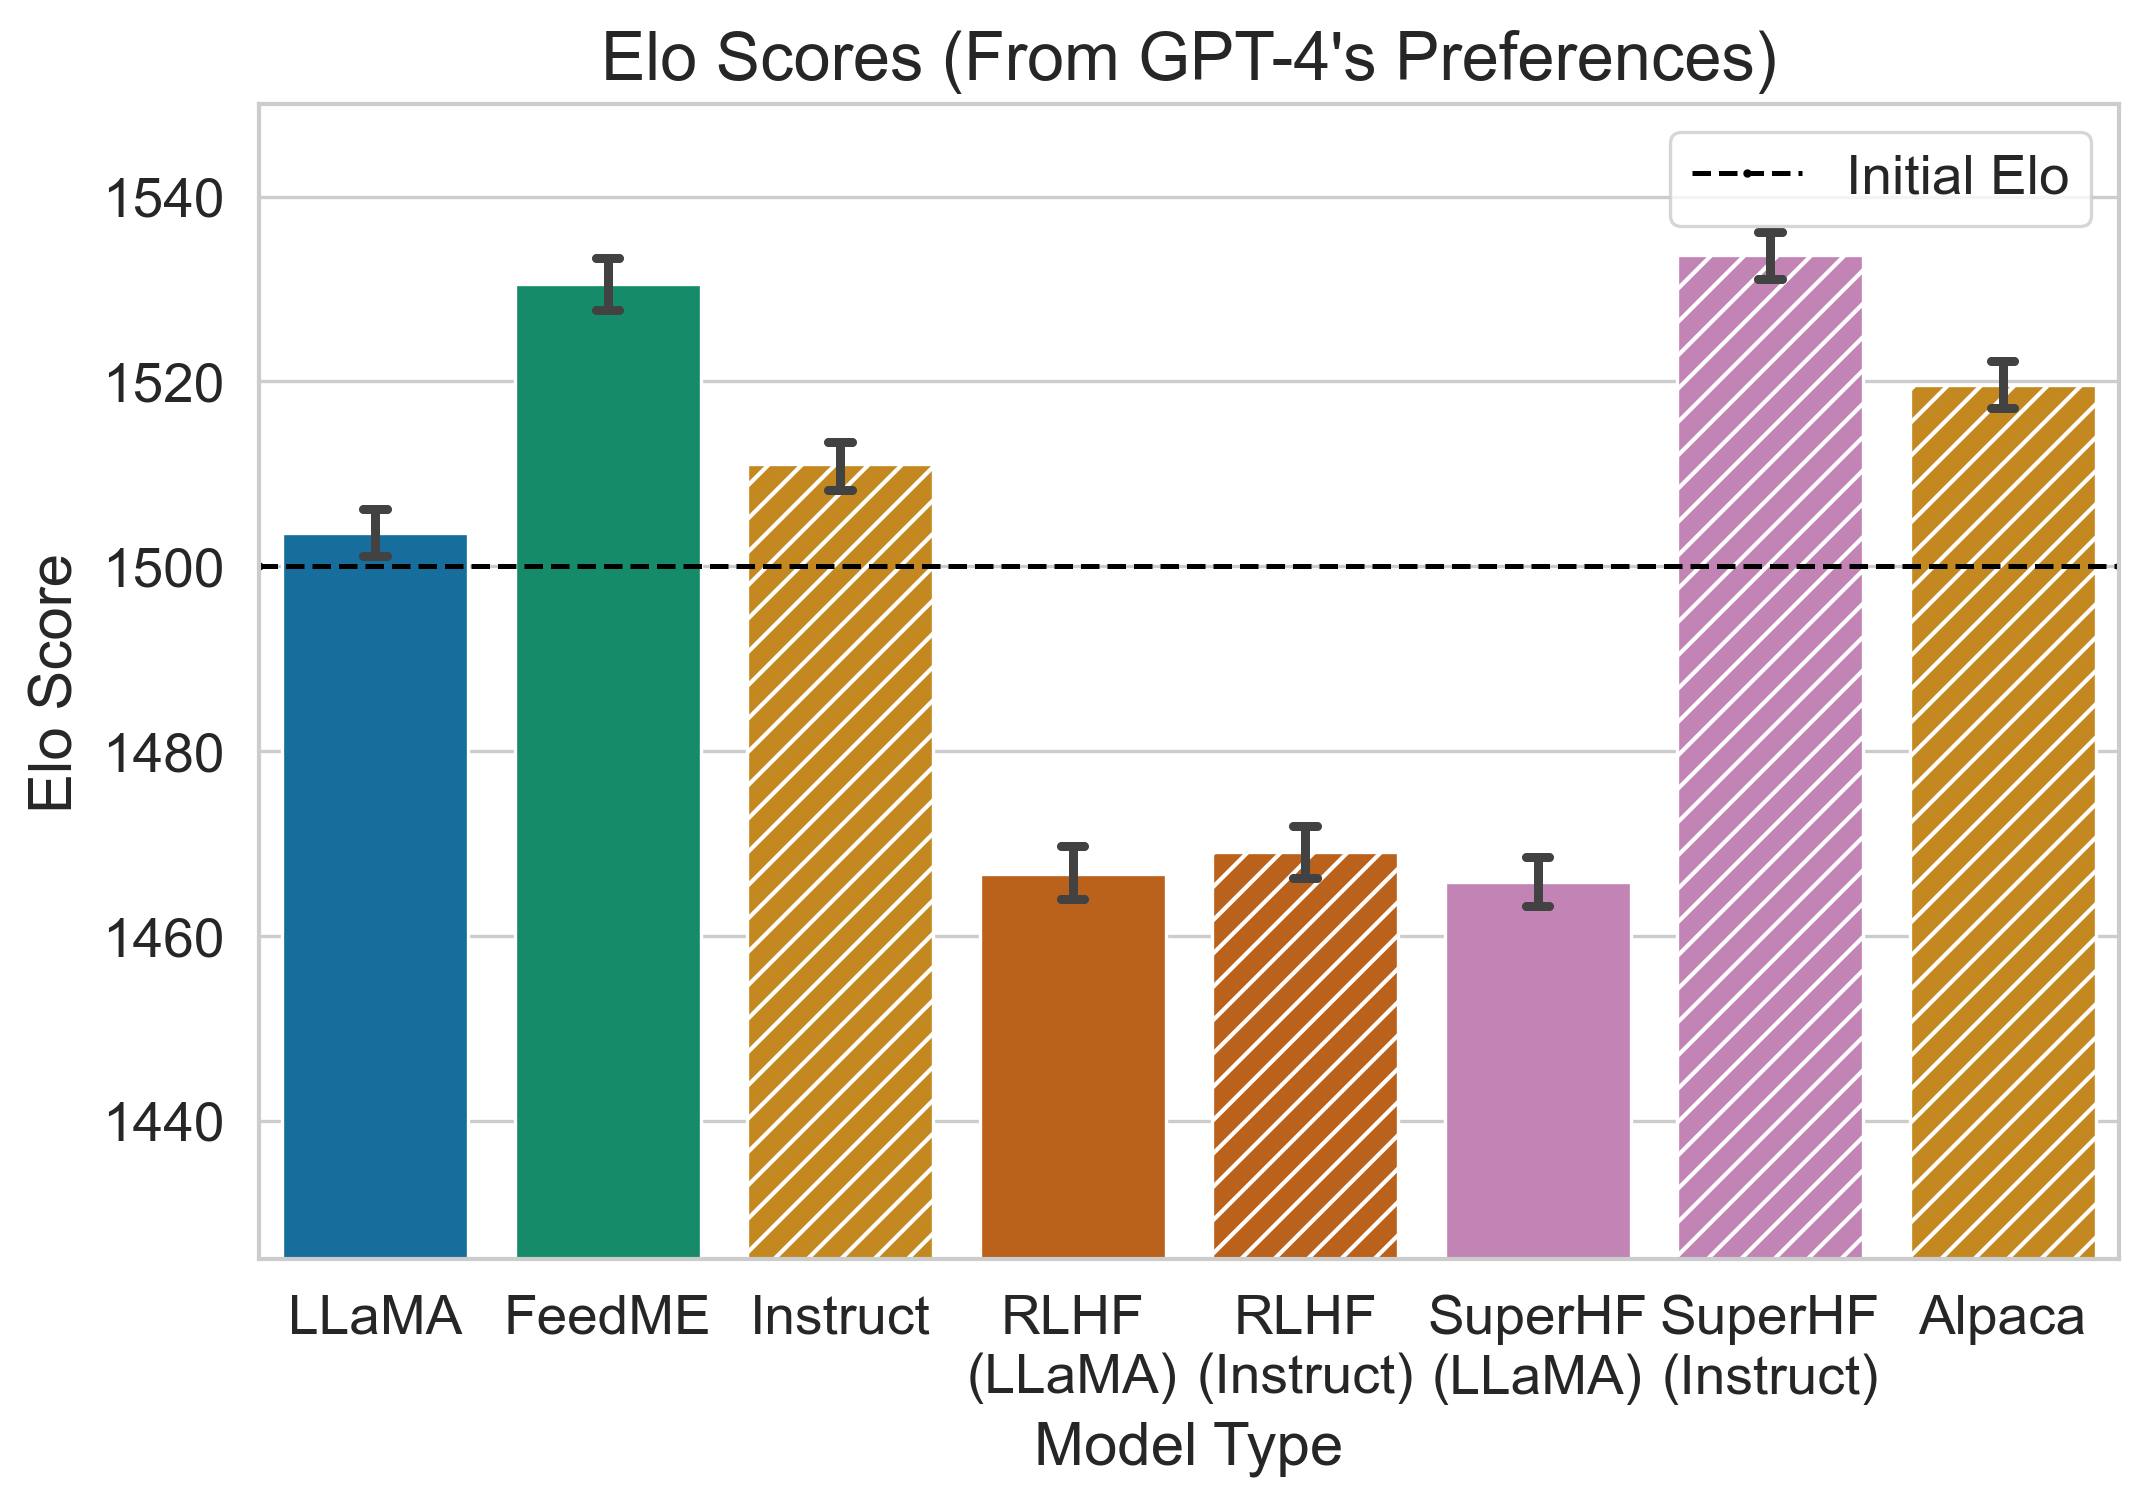
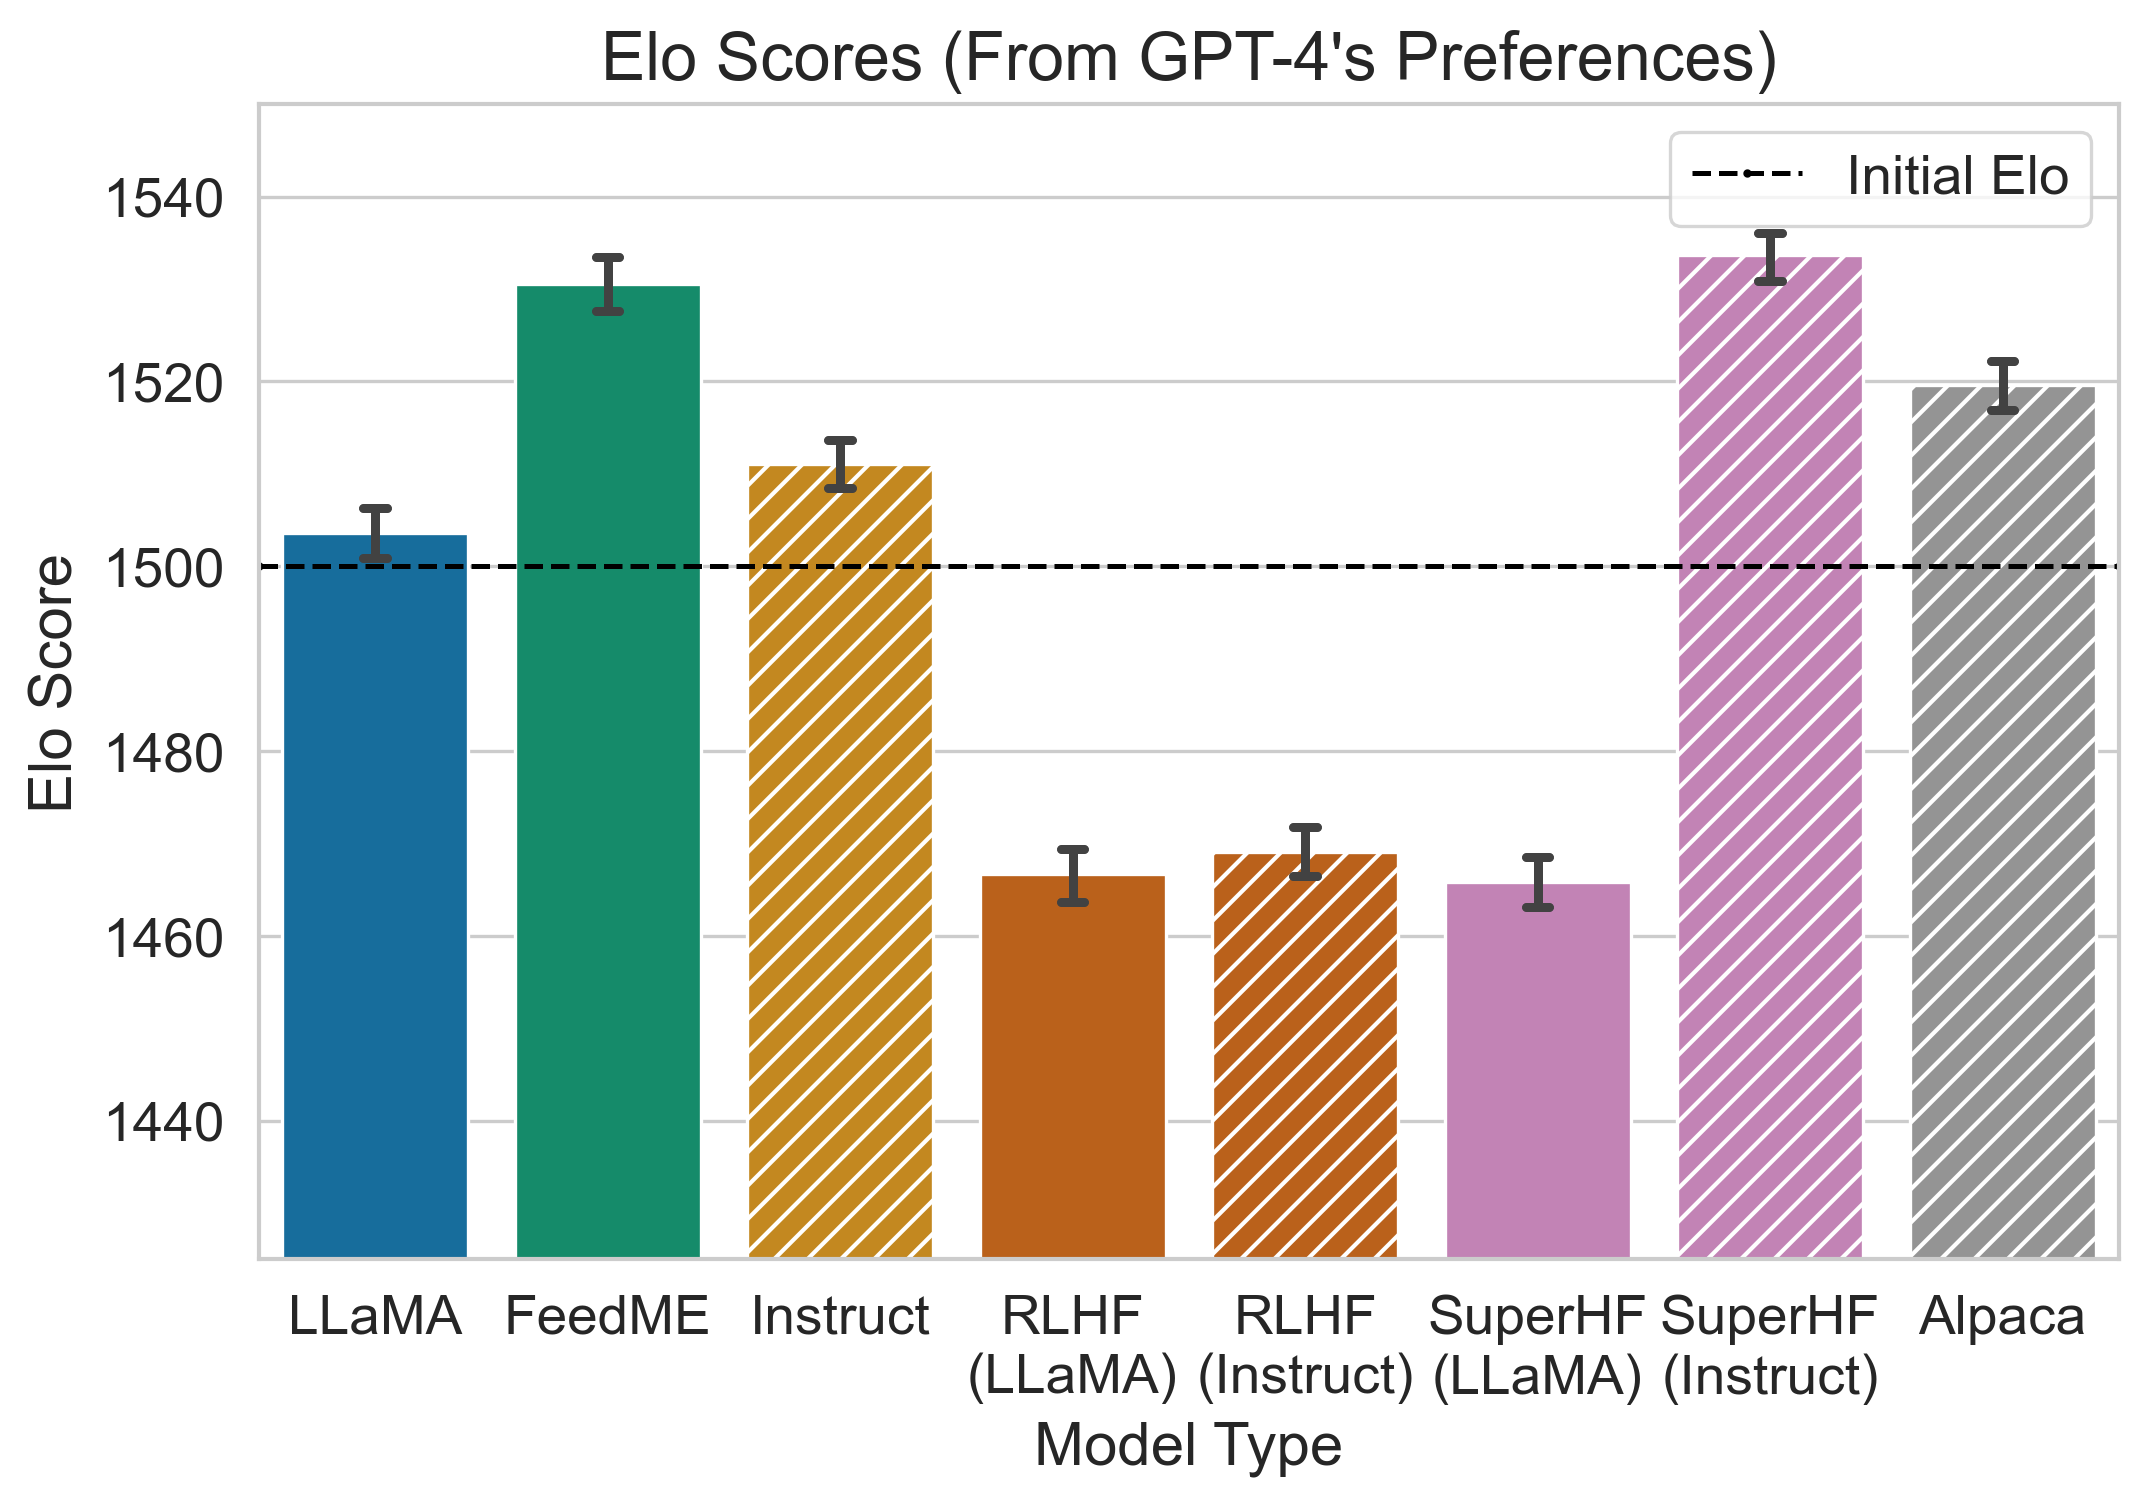
Qual evals full

Changed region(s): [[0.8734, 0.2497, 0.9981, 0.8426]]

diff --git a/charts/qualitative_radar.py b/charts/qualitative_radar.py
@@ -10,11 +10,13 @@ import matplotlib.pyplot as plt
 from chart_utils import (
     initialize_plot,
     save_plot,
+    model_type_to_palette_color,
+    model_type_to_line_style,
     MODEL_NAME_MAPPING,
     QUALITATIVE_MODEL_ORDER,
 )
 
-SHOW_LIMITED_MODELS = True
+SHOW_LIMITED_MODELS = False
 
 OUTPUT_FILE = "./charts/qualitative/qualitative_radar_all.png"
 if SHOW_LIMITED_MODELS:
@@ -32,27 +34,31 @@ def load_data(file_path: str) -> pd.DataFrame:
 
 def main() -> None:
     """Main function."""
+
+    # pylint: disable=too-many-locals
+
     initialize_plot()
     plt.rcParams["lines.marker"] = ""
     plt.figure(figsize=(8, 8))
 
     # Load data
     named_files = [
-        ("Avoidance", "eval_results/gpt4_qualitative/avoidance.jsonl"),
-        ("Bias", "eval_results/gpt4_qualitative/bias.jsonl"),
-        ("Reward\nGaming", "eval_results/gpt4_qualitative/gaming.jsonl"),
-        ("Relevance", "eval_results/gpt4_qualitative/relevance.jsonl"),
+        ("Avoidance", "eval_results/gpt4_qualitative/new_models/avoidance.jsonl"),
+        ("Bias", "eval_results/gpt4_qualitative/new_models/bias.jsonl"),
+        ("Reward\nGaming", "eval_results/gpt4_qualitative/new_models/gaming.jsonl"),
+        ("Relevance", "eval_results/gpt4_qualitative/new_models/relevance.jsonl"),
     ]
     tabular_data: dict[str, Any] = {"group": QUALITATIVE_MODEL_ORDER}
-    # Manually add Elo scores
+    # Manually add Elo scores (from elo_scores.py)
     tabular_data["Elo Score"] = [
-        1220.91,  # LLaMA
-        1507.60,  # Alpaca
-        1311.50,  # SFT
-        1444.27,  # RLHF
-        1527.14,  # SuperHF
-        1711.37,  # GPT-3.5
-        1777.20,  # GPT-4
+        1503.60,  # LLaMA
+        1530.55,  # FeedME
+        1511.04,  # Instruct
+        1466.68,  # RLHF (LLaMA)
+        1469.05,  # RLHF (Instruct)
+        1465.81,  # SuperHF (LLaMA)
+        1533.65,  # SuperHF (Instruct)
+        1519.61,  # Alpaca
     ]
     for quality_name, file_path in named_files:
         data = load_data(file_path)
@@ -70,8 +76,8 @@ def main() -> None:
     dataframe = pd.DataFrame(tabular_data)
 
     if SHOW_LIMITED_MODELS:
-        # Drop all rows but Alpaca, RLHF, and SuperHF
-        dataframe = dataframe.iloc[[1, 3, 4]]
+        # Drop all rows but select few
+        dataframe = dataframe.iloc[[0, 1, 2, 4, 6, 7]]
 
     # Normalize each group to go from 0.1 (min) to 1 (max)
     qualities = ["Elo Score", "Avoidance", "Bias", "Reward\nGaming", "Relevance"]
@@ -105,6 +111,9 @@ def main() -> None:
     # Set y-axis limits
     plt.ylim(0, 1.0)
 
+    # Draw one axe per variable + add labels
+    plt.xticks(angles[:-1], categories)
+
     # Move x-axis labels away from the plot
     plt.tick_params(axis="x", pad=15)
 
@@ -116,14 +125,22 @@ def main() -> None:
             .values.flatten()
             .tolist()
         )
+        color = model_type_to_palette_color(model_name)
+        line_style = model_type_to_line_style(model_name)
         values += values[:1]
-        line_style = "solid" if SHOW_LIMITED_MODELS else "dashed"
-        axis.plot(angles, values, linewidth=3, linestyle=line_style, label=model_name)
+        axis.plot(
+            angles,
+            values,
+            linewidth=3,
+            color=color,
+            linestyle=line_style,
+            label=model_name,
+        )
         if SHOW_LIMITED_MODELS:
             axis.fill(angles, values, alpha=0.15)
 
     # Add legend
-    plt.legend(loc="upper right", bbox_to_anchor=(0.1, 1))
+    plt.legend(loc="upper left", bbox_to_anchor=(-0.125, 1.075), framealpha=0.5)
     if SHOW_LIMITED_MODELS:
         plt.legend()
 

diff --git a/charts/chart_utils.py b/charts/chart_utils.py
@@ -165,7 +165,7 @@ def model_type_to_palette_color(model_type: str) -> Any:
         "shf": "superhf",
         "gpt-4": "gpt-3.5",
         "llama": "pretrained",
-        "alpaca": "instruct",
+        "alpaca": "alpaca",
     }
     for model_name, model_value in model_name_to_type.items():
         if model_name in model_type:
@@ -178,6 +178,7 @@ def model_type_to_palette_color(model_type: str) -> Any:
         "superhf",
         "gpt-3.5",
         "gpt-4",
+        "alpaca",
     ]
     assert model_type in all_model_types
     return _get_color_from_palette(all_model_types.index(model_type))
@@ -188,6 +189,13 @@ def model_type_to_hatch(model_type: str, num_hatches: int = 3) -> Any:
     if "Instruct" in model_type or "Alpaca" in model_type:
         return "/" * num_hatches
     return ""
+
+
+def model_type_to_line_style(model_type: str) -> Any:
+    """Standardize our hatching"""
+    if "Instruct" in model_type or "Alpaca" in model_type:
+        return "--"
+    return "-"
 
 
 def save_plot(file_path: str) -> None:

diff --git a/charts/elo_scores.py b/charts/elo_scores.py
@@ -44,7 +44,7 @@ def main() -> None:
     # Print out the average elo for each model
     for model_name in QUALITATIVE_MODEL_ORDER:
         model_scores = dataframe[dataframe["Model"] == model_name]["Elo"]
-        print(f"{model_name}: {model_scores.mean():.2f}")
+        print(f"{model_scores.mean():.2f}, # {model_name}")
 
     # Create the plot
     plt.rcParams["lines.markersize"] = 1
